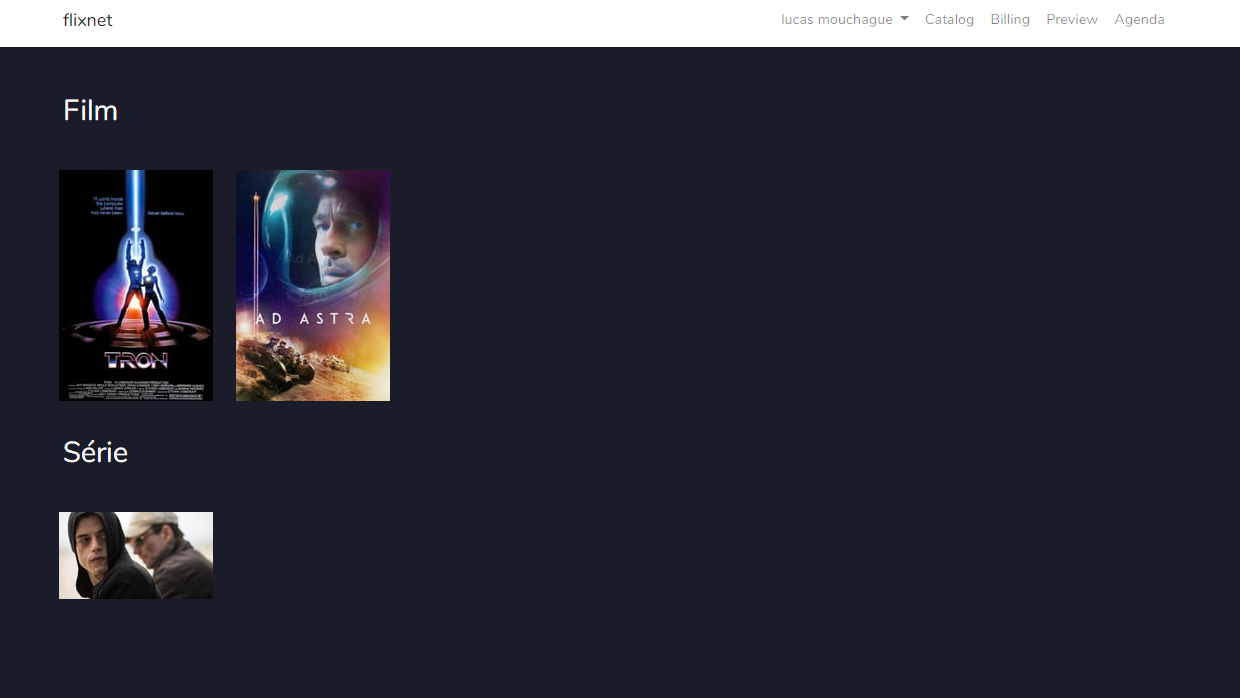
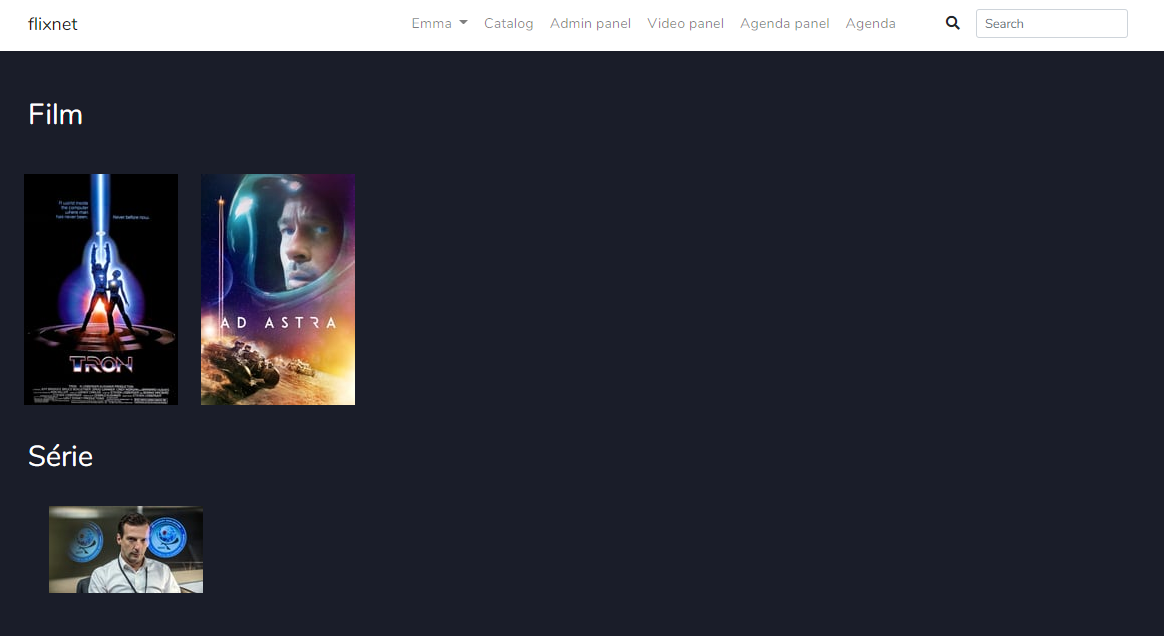
mail_payement

Changed region(s): [[0.0, 0.239, 0.3402, 0.956], [0.0, 0.0, 1.0, 0.0896], [0.0309, 0.1494, 0.0928, 0.2091]]

diff --git a/README.md b/README.md
@@ -150,6 +150,12 @@ Toute les 24 heures le catalogue de vidéo pour les utilisateurs gratuit s'actua
 ---
 ![index](rendu/payment.PNG)
 ---
-![index](rendu/payment.PNG)
----
 ![index](rendu/catalog_premium.PNG)
+---
+![index](rendu/admin_panel.PNG)
+---
+![index](rendu/video_panel.PNG)
+---
+![index](rendu/agenda_panel.PNG)
+---
+![index](rendu/agenda.png)
